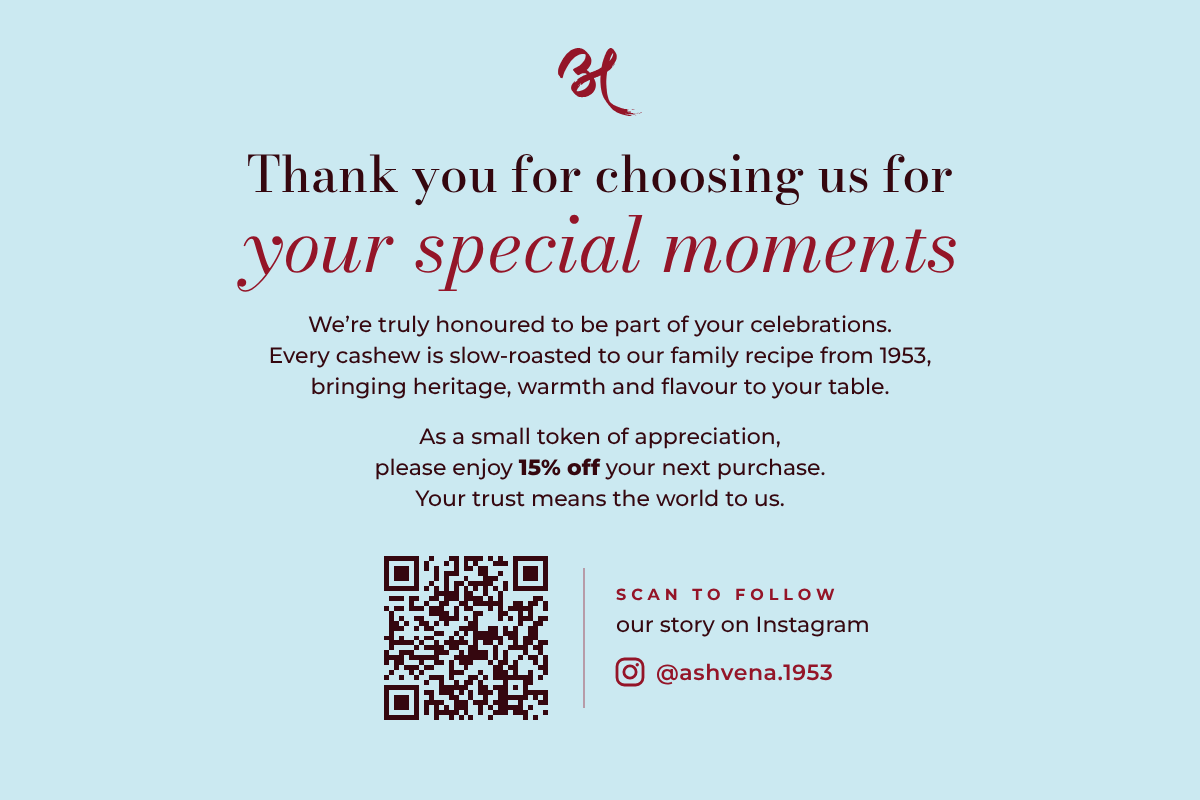
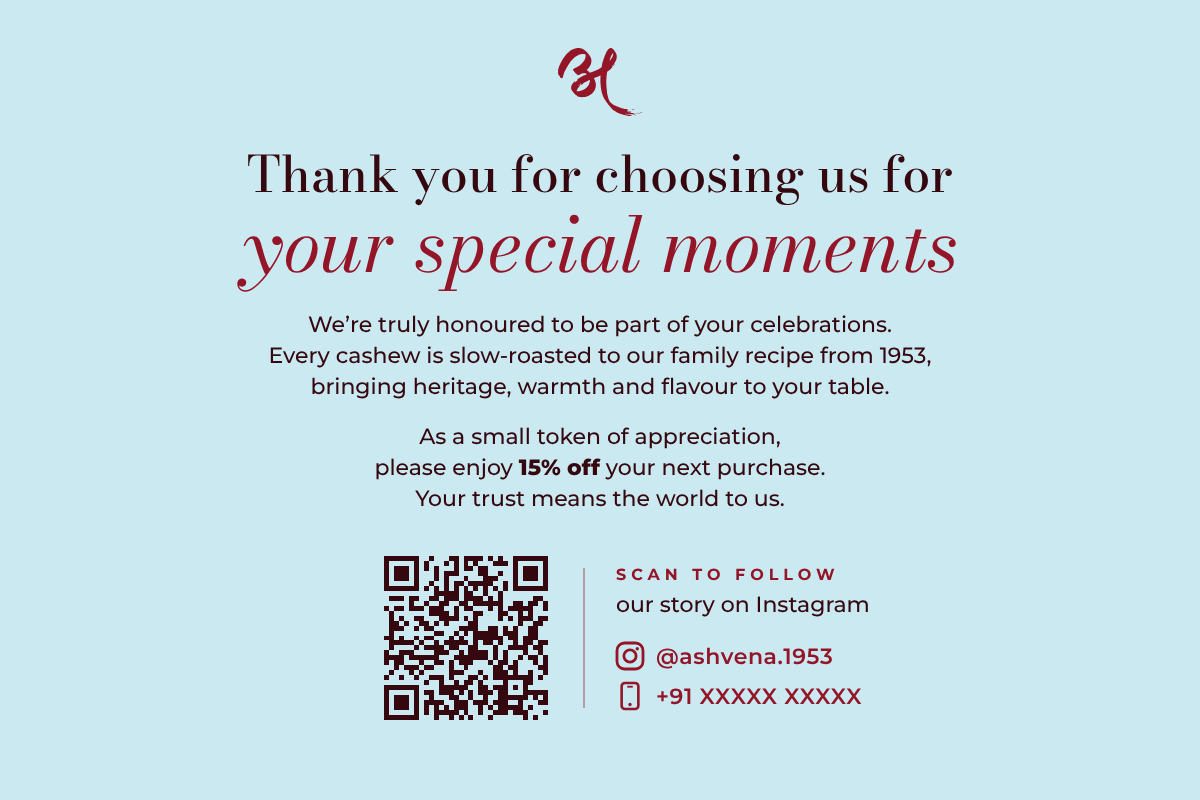
Add mobile number to thank-you card back
New contact line (phone glyph + number) under the Instagram handle.
The number is a placeholder; set it with --phone.

Claude-Session: https://claude.ai/code/session_01NdK4AQVhPAgYcWckgUP14Q

Changed region(s): [[0.4933, 0.6875, 0.74, 0.875]]

diff --git a/scripts/generate_thank_you_card.py b/scripts/generate_thank_you_card.py
@@ -12,7 +12,7 @@ Back: Dispensary-blue card with a heartfelt note and a scannable Instagram QR.
 Artboard: 150 x 100 mm (4 px = 1 mm), landscape.
 Output: packaging/F-thank-you-card/ashvena-thank-you-card_<side>.svg
 
-Usage: python3 scripts/generate_thank_you_card.py [--insta HANDLE]
+Usage: python3 scripts/generate_thank_you_card.py [--insta HANDLE] [--phone NUMBER]
 """
 import argparse
 import json
@@ -28,6 +28,7 @@ LOGO = json.load(open(os.path.join(HERE, "..", "brand", "ashvena-logo-parts.json
 W, H = 600, 400
 
 INSTAGRAM = "ashvena.1953"  # PLACEHOLDER - confirm the real handle before print
+PHONE = "+91 XXXXX XXXXX"  # PLACEHOLDER - set with --phone
 
 F_SERIF = "'Bodoni Moda', 'Libre Caslon Display', Didot, serif"
 F_SANS = "Montserrat, Helvetica, Arial, sans-serif"
@@ -134,7 +135,16 @@ def insta_glyph(x, y, s, col):
             f'<circle cx="3.9" cy="-3.9" r=".9" fill="{col}"/></g>')
 
 
-def back(handle):
+def phone_glyph(x, y, s, col):
+    """Mobile phone outline, centred on (x, y), s px tall."""
+    k = s / 14
+    return (f'<g transform="translate({x} {y}) scale({k:.3f})">'
+            f'<rect x="-4.5" y="-7" width="9" height="14" rx="1.8" fill="none" stroke="{col}" stroke-width="1.4"/>'
+            f'<line x1="-1.5" y1="-5" x2="1.5" y2="-5" stroke="{col}" stroke-width="1"/>'
+            f'<circle cy="4.6" r=".9" fill="{col}"/></g>')
+
+
+def back(handle, phone):
     cx = W / 2
     o = [g("Background", f'<rect width="{W}" height="{H}" fill="{DISPENSARY}"/>')]
     o.append(g("Logo_Mark", logo_part("mark", cx - part_width("mark", 34) / 2, 24, 34, BRICK)))
@@ -151,19 +161,22 @@ def back(handle):
                qr_code(qx, qy, qs, url, DEEP_LAC)
                + f'<line x1="{qx + qs + 18}" y1="{qy + 6}" x2="{qx + qs + 18}" y2="{qy + qs - 6}" stroke="{BRICK}" '
                  f'stroke-width=".8" opacity=".45"/>'
-               + text(qx + qs + 34, qy + 22, "SCAN TO FOLLOW", 8, BRICK, F_SANS, 700, 2.5, anchor="start")
-               + text(qx + qs + 34, qy + 38, "our story on Instagram", 11, DEEP_LAC, F_SANS, 500, anchor="start")
-               + insta_glyph(qx + qs + 41, qy + 58, 13, BRICK)
-               + text(qx + qs + 54, qy + 62, f"@{esc(handle)}", 11, BRICK, F_SANS, 600, .3, anchor="start")))
+               + text(qx + qs + 34, qy + 12, "SCAN TO FOLLOW", 8, BRICK, F_SANS, 700, 2.5, anchor="start")
+               + text(qx + qs + 34, qy + 28, "our story on Instagram", 11, DEEP_LAC, F_SANS, 500, anchor="start")
+               + insta_glyph(qx + qs + 41, qy + 50, 13, BRICK)
+               + text(qx + qs + 54, qy + 54, f"@{esc(handle)}", 11, BRICK, F_SANS, 600, .3, anchor="start")
+               + phone_glyph(qx + qs + 41, qy + 70, 13, BRICK)
+               + text(qx + qs + 54, qy + 74, esc(phone), 11, BRICK, F_SANS, 600, .3, anchor="start")))
     return svg_doc("\n".join(o), "Ashvena thank-you card - back")
 
 
 def main():
     ap = argparse.ArgumentParser()
     ap.add_argument("--insta", default=INSTAGRAM, help="Instagram handle without @")
+    ap.add_argument("--phone", default=PHONE, help="mobile number as printed, e.g. '+91 98765 43210'")
     a = ap.parse_args()
     os.makedirs(ROOT, exist_ok=True)
-    for side, svg in [("front", front()), ("back", back(a.insta.lstrip("@")))]:
+    for side, svg in [("front", front()), ("back", back(a.insta.lstrip("@"), a.phone))]:
         p = os.path.join(ROOT, f"ashvena-thank-you-card_{side}.svg")
         open(p, "w").write(svg)
         print(os.path.relpath(p, os.path.join(ROOT, "..", "..")))

diff --git a/packaging/README.md b/packaging/README.md
@@ -26,7 +26,7 @@ Three carton design directions for **Peri Peri Cashews** and **Kadi Patta Cashew
 ## Before print, replace these placeholders
 - Nutrition values (indicative only), ingredient percentages, and claims ("Made in India"). Get them from your lab report and your recipe.
 - FSSAI licence no., address, MRP, barcode (EAN), QR code, batch and dates.
-- Thank-you card (F): the QR and handle point to `instagram.com/ashvena.1953`, which is a placeholder. Regenerate with `python3 scripts/generate_thank_you_card.py --insta <your_handle>`. Confirm the 15% offer (or remove it) and add 3 mm bleed.
+- Thank-you card (F): the QR and handle point to `instagram.com/ashvena.1953`, which is a placeholder. The mobile number is a placeholder (`+91 XXXXX XXXXX`). Regenerate with `python3 scripts/generate_thank_you_card.py --insta <your_handle> --phone "+91 98xxx xxxxx"`. Confirm the 15% offer (or remove it) and add 3 mm bleed.
 - Add bleed (3 mm), glue flap, top and bottom tuck flaps for your printer's actual dieline.
 
 ## Regenerate
